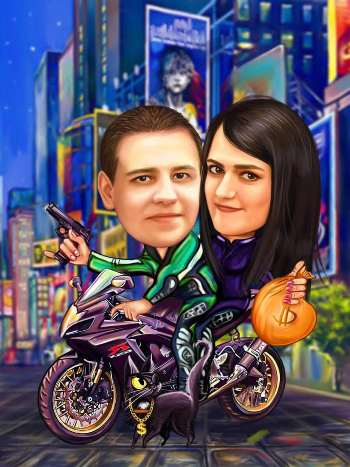
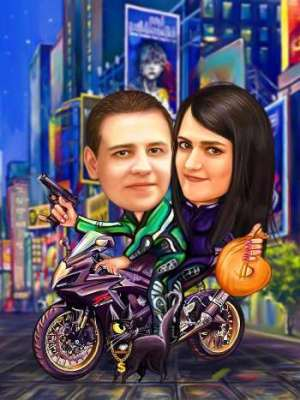
er

diff --git a/projects/Viar/sharj.html b/projects/Viar/sharj.html
@@ -4753,6 +4753,7 @@ svg {
                   <div class="sharj__slider-item">
                     <div class="sharj__slider-image">
                       <picture>
+                        <source srcset="images/sharj/sharj2.webp">
                         <source
                           srcset="images/sharj/sharj2.jpg"
                           type="image/jpeg"
@@ -5578,6 +5579,7 @@ svg {
                   <div class="sharj__slider-item">
                     <div class="sharj__slider-image">
                       <picture>
+                        <source srcset="images/sharj/sharj8.webp" type="image/webp">
                         <source
                           srcset="images/sharj/sharj8.jpg"
                           type="image/jpeg"
